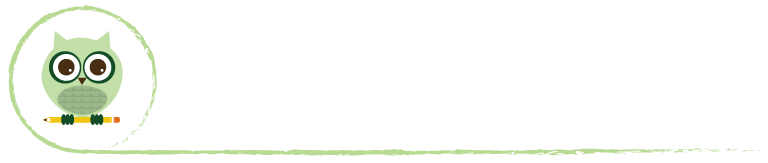
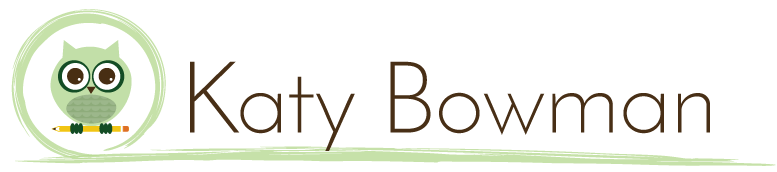
Adding my fonts and my header image

Changed region(s): [[0.0, 0.0307, 1.0, 0.9816], [0.5, 0.3374, 0.9375, 0.7975]]

diff --git a/app/_includes/header.html b/app/_includes/header.html
@@ -1,27 +1,26 @@
 <header class="site-header">
 
-  <div class="wrapper">
-
-    <a class="site-title" href="{{ site.baseurl }}/">{{ site.title }}</a>
-
-    <nav class="site-nav">
-      <a href="#" class="menu-icon">
-        <svg viewBox="0 0 18 15">
-          <path fill="#424242" d="M18,1.484c0,0.82-0.665,1.484-1.484,1.484H1.484C0.665,2.969,0,2.304,0,1.484l0,0C0,0.665,0.665,0,1.484,0 h15.031C17.335,0,18,0.665,18,1.484L18,1.484z"/>
-          <path fill="#424242" d="M18,7.516C18,8.335,17.335,9,16.516,9H1.484C0.665,9,0,8.335,0,7.516l0,0c0-0.82,0.665-1.484,1.484-1.484 h15.031C17.335,6.031,18,6.696,18,7.516L18,7.516z"/>
-          <path fill="#424242" d="M18,13.516C18,14.335,17.335,15,16.516,15H1.484C0.665,15,0,14.335,0,13.516l0,0 c0-0.82,0.665-1.484,1.484-1.484h15.031C17.335,12.031,18,12.696,18,13.516L18,13.516z"/>
-        </svg>
-      </a>
-
-      <div class="trigger">
-        {% for page in site.pages %}
-          {% if page.title %}
-          <a class="page-link" href="{{ page.url | prepend: site.baseurl }}">{{ page.title }}</a>
-          {% endif %}
-        {% endfor %}
-      </div>
-    </nav>
-
+<nav class="navbar navbar-default nav-custom">
+  <div>
+    <img class="owl" src="/images/Katy_owl_logo.png" alt="Owl">
   </div>
+  <div class="menu">
+    <div class="navbar-header">
+      <button type="button" class="navbar-toggle collapsed" data-toggle="collapse" data-target="#bs-example-navbar-collapse-1" aria-expanded="false">
+        <span class="sr-only">Toggle navigation</span>
+        <span class="icon-bar"></span>
+        <span class="icon-bar"></span>
+        <span class="icon-bar"></span>
+      </button>
+    </div>
+    <div class="collapse navbar-collapse" id="bs-example-navbar-collapse-1">
+      <ul class="nav navbar-nav navbar-right" id="navigation">
+        <li><a href="http://katybowman.com">My Work</a></li>
+        <li><a href="/mystory">My Story</a></li>
+        <li><a href="/blog">My Blog</a></li>
+      </ul>
+    </div>
+  </div>
+</nav>
 
 </header>

diff --git a/app/_includes/head.html b/app/_includes/head.html
@@ -12,7 +12,7 @@
   <link rel="stylesheet" href="https://maxcdn.bootstrapcdn.com/font-awesome/4.4.0/css/font-awesome.min.css">
   <script src="/bootstrap-3.3.5-dist/js/bootstrap.min.js"></script>
 
-  <link href='https://fonts.googleapis.com/css?family=Voltaire|Lora' rel='stylesheet' type='text/css'>
+  <link href='https://fonts.googleapis.com/css?family=Raleway|Merriweather' rel='stylesheet' type='text/css'>
   <link rel="icon" type="image/png" href="/images/owl_favicon.png">
 
   <link rel="stylesheet" href="/css/main.css">

diff --git a/app/css/main.css b/app/css/main.css
@@ -1,0 +1,41 @@
+h1, h2, h3 {
+  font-family: "Raleway", sans-serif;
+  font-style: 300;
+  color: #472e15;
+}
+
+p {
+  font-family: "Merriweather", serif;
+  color: #303030;
+}
+
+/*HEADER*/
+
+.name {
+  text-align: center;
+}
+
+.header {
+  margin: auto;
+  max-width: 100%;
+}
+
+.menu {
+  font-family: "Raleway", sans-serif;
+  font-style: 300;
+  font-size: 1.5em;
+}
+
+.navbar {
+  background: none;
+  border: none;
+  box-shadow: none;
+}
+
+.nav {
+  text-align: center;
+}
+
+.owl {
+  max-width: 30%;
+}
